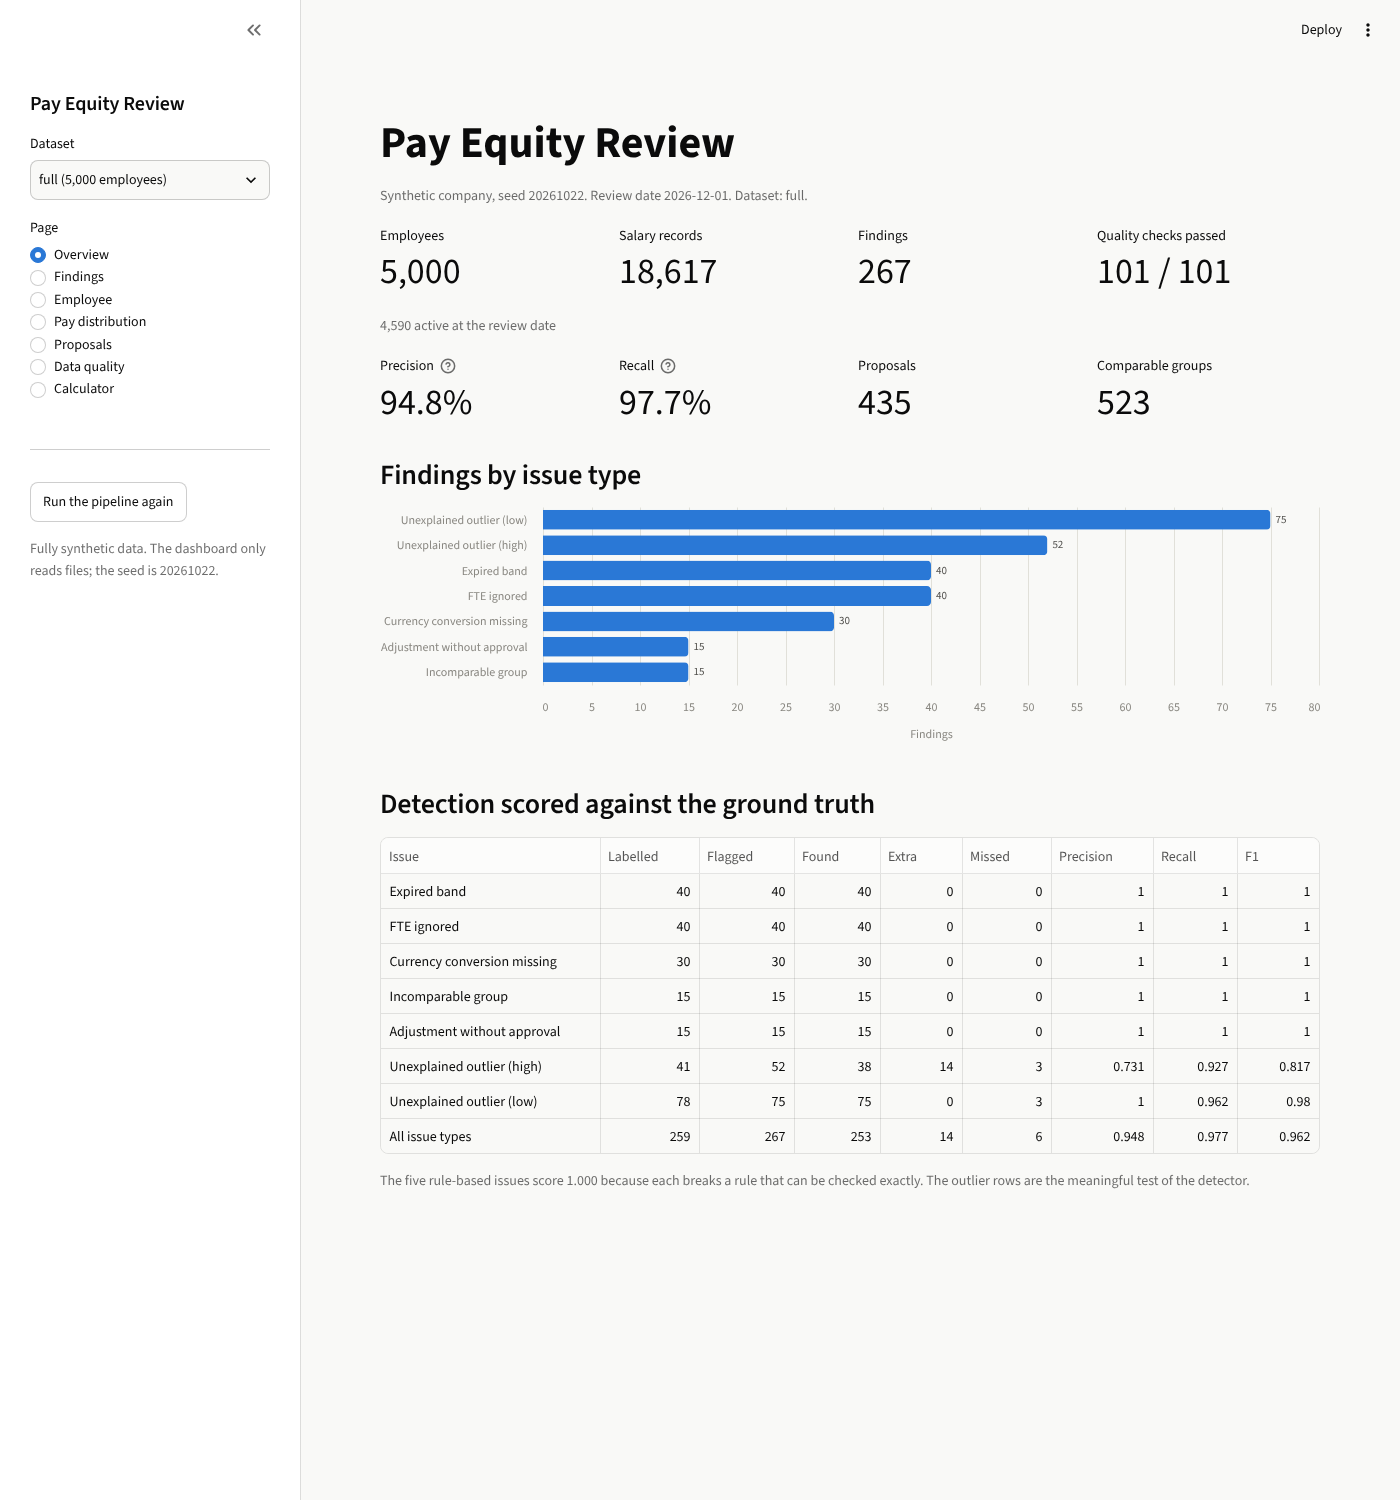
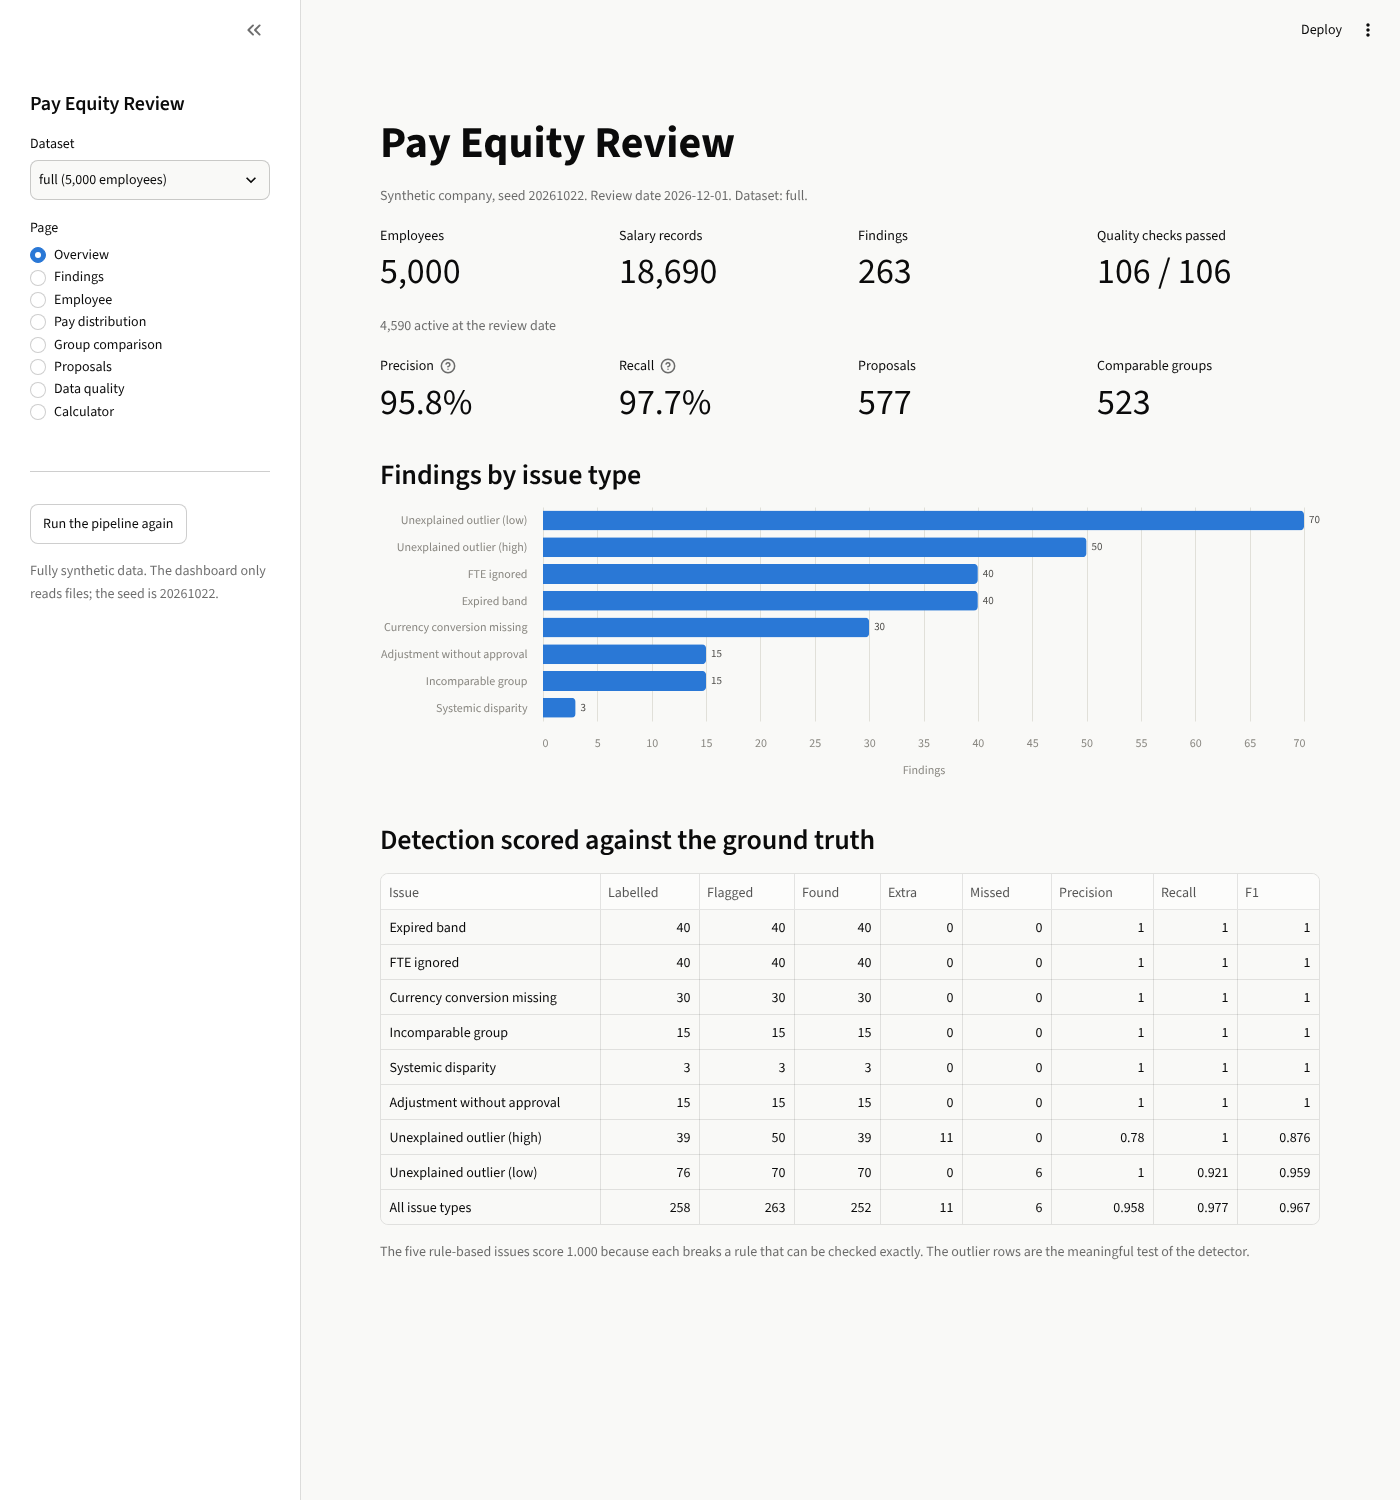
Add group comparison page to the dashboard
Claude-Session: https://claude.ai/code/session_01W88cRxxK5zVZ6h7yBAhjx3

diff --git a/app.py b/app.py
@@ -40,6 +40,7 @@ ISSUE_NAMES = {
     "INCOMPARABLE_GROUP": "Incomparable group",
     "UNEXPLAINED_OUTLIER_LOW": "Unexplained outlier (low)",
     "UNEXPLAINED_OUTLIER_HIGH": "Unexplained outlier (high)",
+    "SYSTEMIC_DISPARITY": "Systemic disparity",
     "RATIO_MISMATCH_OTHER": "Ratio mismatch (other)",
     "ALL": "All issue types",
 }
@@ -68,7 +69,7 @@ def load_everything(scale):
         data[table["name"]] = read(os.path.join(PROJECT_FOLDER, "data", scale, "csv", table["name"] + ".csv"))
     out_folder = os.path.join(PROJECT_FOLDER, "output", scale)
     for name in ["findings", "employee_metrics", "evaluation", "validation_summary",
-                 "outlier_threshold_sweep", "evaluation_misses"]:
+                 "outlier_threshold_sweep", "evaluation_misses", "group_gap_by_role_level"]:
         data[name] = read(os.path.join(out_folder, name + ".csv"))
     data["ground_truth"] = read(os.path.join(PROJECT_FOLDER, "ground_truth", scale, "ground_truth.csv"))
     return data
@@ -80,6 +81,7 @@ def scale_is_ready(scale):
         os.path.join(PROJECT_FOLDER, "output", scale, "findings.csv"),
         os.path.join(PROJECT_FOLDER, "output", scale, "evaluation.csv"),
         os.path.join(PROJECT_FOLDER, "output", scale, "validation_summary.csv"),
+        os.path.join(PROJECT_FOLDER, "output", scale, "group_gap_by_role_level.csv"),
     ]
     for path in needed:
         if not os.path.exists(path):
@@ -376,8 +378,9 @@ def page_distribution(data):
 
     st.subheader("Distance from the expected ratio")
     st.caption("Each dot is one employee. Dots outside the dashed lines (more than "
-               + format(config.OUTLIER_THRESHOLD, ".2f") + " from expected) are flagged as unexplained outliers.")
-    names = {"": "Within tolerance", "UNEXPLAINED_OUTLIER_LOW": "Flagged low", "UNEXPLAINED_OUTLIER_HIGH": "Flagged high"}
+               + format(config.OUTLIER_THRESHOLD, ".2f") + " from expected) are flagged as unexplained outliers, unless the person is already covered by a systemic finding.")
+    names = {"": "Not flagged individually", "UNEXPLAINED_OUTLIER_LOW": "Flagged low",
+             "UNEXPLAINED_OUTLIER_HIGH": "Flagged high"}
     dots_data = view.copy()
     dots_data["Flag"] = dots_data["outlier_flag"].map(names)
     dots_data["expected"] = dots_data["expected_compa_ratio"].astype(float)
@@ -385,7 +388,7 @@ def page_distribution(data):
         x=alt.X("expected:Q", title="Expected compa-ratio from documented factors", scale=alt.Scale(zero=False)),
         y=alt.Y("residual:Q", title="Actual minus expected"),
         color=alt.Color("Flag:N", title=None,
-                        scale=alt.Scale(domain=["Within tolerance", "Flagged low", "Flagged high"],
+                        scale=alt.Scale(domain=["Not flagged individually", "Flagged low", "Flagged high"],
                                         range=[GREY, BLUE, ORANGE])),
         tooltip=[alt.Tooltip("employee_id:N", title="Employee"),
                  alt.Tooltip("compa_ratio:Q", title="Compa-ratio", format=".4f"),
@@ -402,6 +405,87 @@ def page_distribution(data):
     by_level.columns = ["Level", "Median compa-ratio", "Employees"]
     by_level["Median compa-ratio"] = by_level["Median compa-ratio"].round(4)
     st.dataframe(by_level, hide_index=True, width="stretch")
+
+
+# ----------------------------------------------------------------------
+# Page: Group comparison
+# ----------------------------------------------------------------------
+
+def page_groups(data):
+    st.title("Group comparison")
+    st.caption("Median compa-ratio of the two anonymous demographic groups, compared inside each role, "
+               "level by level. The groups are synthetic labels with no real-world meaning.")
+
+    gaps = data["group_gap_by_role_level"]
+    compared = gaps[gaps["meets_threshold"] != ""].copy()
+    flagged_roles = sorted(data["findings"][data["findings"]["issue_type"] == "SYSTEMIC_DISPARITY"]["record_id"])
+    role_names = dict(zip(data["role"]["role_id"], data["role"]["role_name"]))
+
+    st.markdown("**Rule:** a role is flagged when the same group's median is at least "
+                + format(config.SYSTEMIC_GAP_PCT, ".0f") + "% lower at " + str(config.SYSTEMIC_MIN_LEVELS)
+                + " or more levels, and at " + format(config.SYSTEMIC_MIN_LEVEL_SHARE, ".0%")
+                + " or more of the levels that had at least " + str(config.SYSTEMIC_MIN_GROUP_SIZE)
+                + " people in each group.")
+
+    if len(compared) == 0:
+        st.info("This dataset is too small to compare groups: no role and level has at least "
+                + str(config.SYSTEMIC_MIN_GROUP_SIZE) + " active employees in each group. "
+                "Switch to the full dataset in the sidebar.")
+        return
+
+    col1, col2, col3 = st.columns(3)
+    col1.metric("Roles with enough data", number(compared["role_id"].nunique()))
+    col2.metric("Role and level pairs compared", number(len(compared)))
+    col3.metric("Roles flagged", number(len(flagged_roles)))
+
+    # One row per role: at how many levels is Group B lower by the threshold?
+    lower_group = config.DISADVANTAGED_GROUP
+    summary_rows = []
+    for role_id, rows in compared.groupby("role_id"):
+        hits = rows[(rows["meets_threshold"] == "YES") & (rows["lower_group"] == lower_group)]
+        summary_rows.append({
+            "Role": role_id + " - " + role_names[role_id],
+            "role_id": role_id,
+            "Levels with gap": len(hits),
+            "Levels compared": len(rows),
+            "Result": "Flagged" if role_id in flagged_roles else "Not flagged",
+        })
+    summary = pd.DataFrame(summary_rows).sort_values(["Levels with gap", "Role"], ascending=[False, True])
+
+    st.subheader("Levels where " + lower_group + " is at least "
+                 + format(config.SYSTEMIC_GAP_PCT, ".0f") + "% lower, by role")
+    top = summary[summary["Levels with gap"] > 0].head(15)
+    if len(top) == 0:
+        st.write("No role shows such a gap at any level.")
+    else:
+        bars = alt.Chart(top).mark_bar(cornerRadiusEnd=4, size=14).encode(
+            x=alt.X("Levels with gap:Q", title="Levels with a gap", axis=alt.Axis(tickMinStep=1),
+                    scale=alt.Scale(domain=[0, 5])),
+            y=alt.Y("Role:N", sort=list(top["Role"]), title=None,
+                    axis=alt.Axis(labelLimit=280, labelOverlap=False)),
+            color=alt.Color("Result:N", title=None,
+                            scale=alt.Scale(domain=["Flagged", "Not flagged"], range=[BLUE, GREY])),
+            tooltip=["Role:N", "Levels with gap:Q", "Levels compared:Q", "Result:N"],
+        )
+        st.altair_chart(tidy(bars, height=max(160, 26 * len(top))), width="stretch")
+        st.caption("Roles with one or two levels are expected by chance: with small groups, medians differ "
+                   "even when pay is fair. Only a gap repeated across most levels is treated as a pattern.")
+
+    st.subheader("Level by level")
+    options = list(summary["role_id"])
+    picked = st.selectbox("Role", options, format_func=lambda value: value + " - " + role_names[value])
+    detail = gaps[gaps["role_id"] == picked][["level_id", "group_1_count", "group_1_median",
+                                              "group_2_count", "group_2_median", "gap_pct",
+                                              "lower_group", "meets_threshold"]]
+    first_name = gaps["group_1"].iloc[0]
+    second_name = gaps["group_2"].iloc[0]
+    detail.columns = ["Level", first_name + " people", first_name + " median", second_name + " people",
+                      second_name + " median", "Gap %", "Lower group", "Meets threshold"]
+    st.dataframe(detail, hide_index=True, width="stretch")
+    own = data["findings"][(data["findings"]["issue_type"] == "SYSTEMIC_DISPARITY")
+                           & (data["findings"]["record_id"] == picked)]
+    for finding in own.to_dict("records"):
+        st.warning(finding["evidence"])
 
 
 # ----------------------------------------------------------------------
@@ -611,7 +695,7 @@ def main():
     scale = st.sidebar.selectbox("Dataset", scales, index=default_index,
                                  format_func=lambda value: value + " (" + format(config.SCALES[value], ",") + " employees)")
     page = st.sidebar.radio("Page", ["Overview", "Findings", "Employee", "Pay distribution",
-                                     "Proposals", "Data quality", "Calculator"])
+                                     "Group comparison", "Proposals", "Data quality", "Calculator"])
 
     st.sidebar.divider()
     if st.sidebar.button("Run the pipeline again", help="Generate, validate, detect, evaluate and check reproducibility"):
@@ -643,6 +727,8 @@ def main():
         page_employee(data)
     elif page == "Pay distribution":
         page_distribution(data)
+    elif page == "Group comparison":
+        page_groups(data)
     elif page == "Proposals":
         page_proposals(data)
     elif page == "Data quality":
